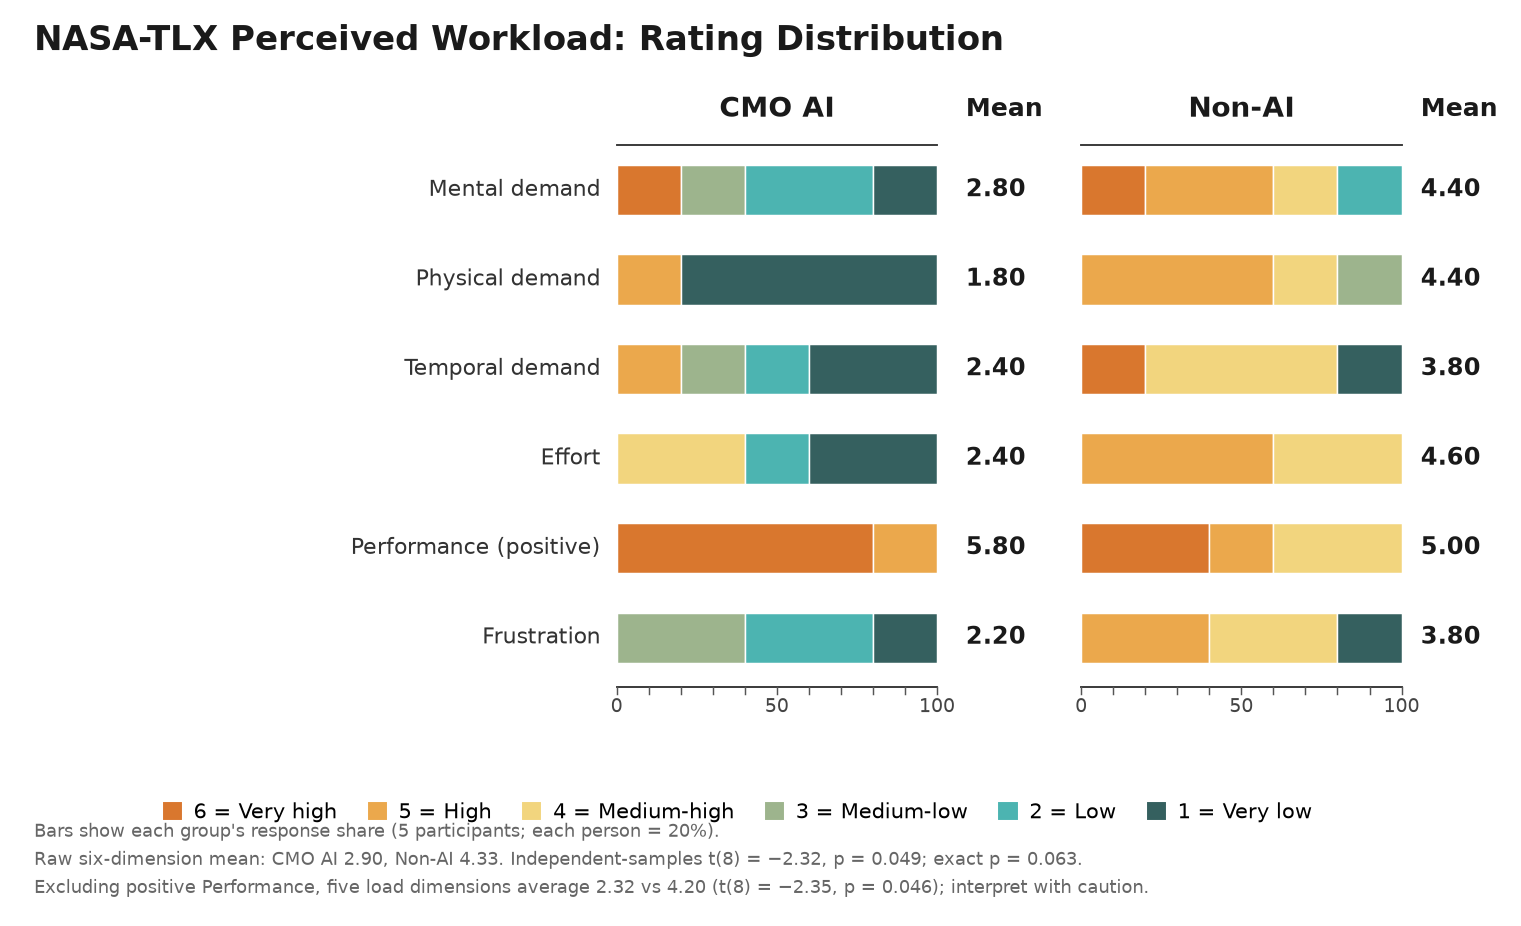
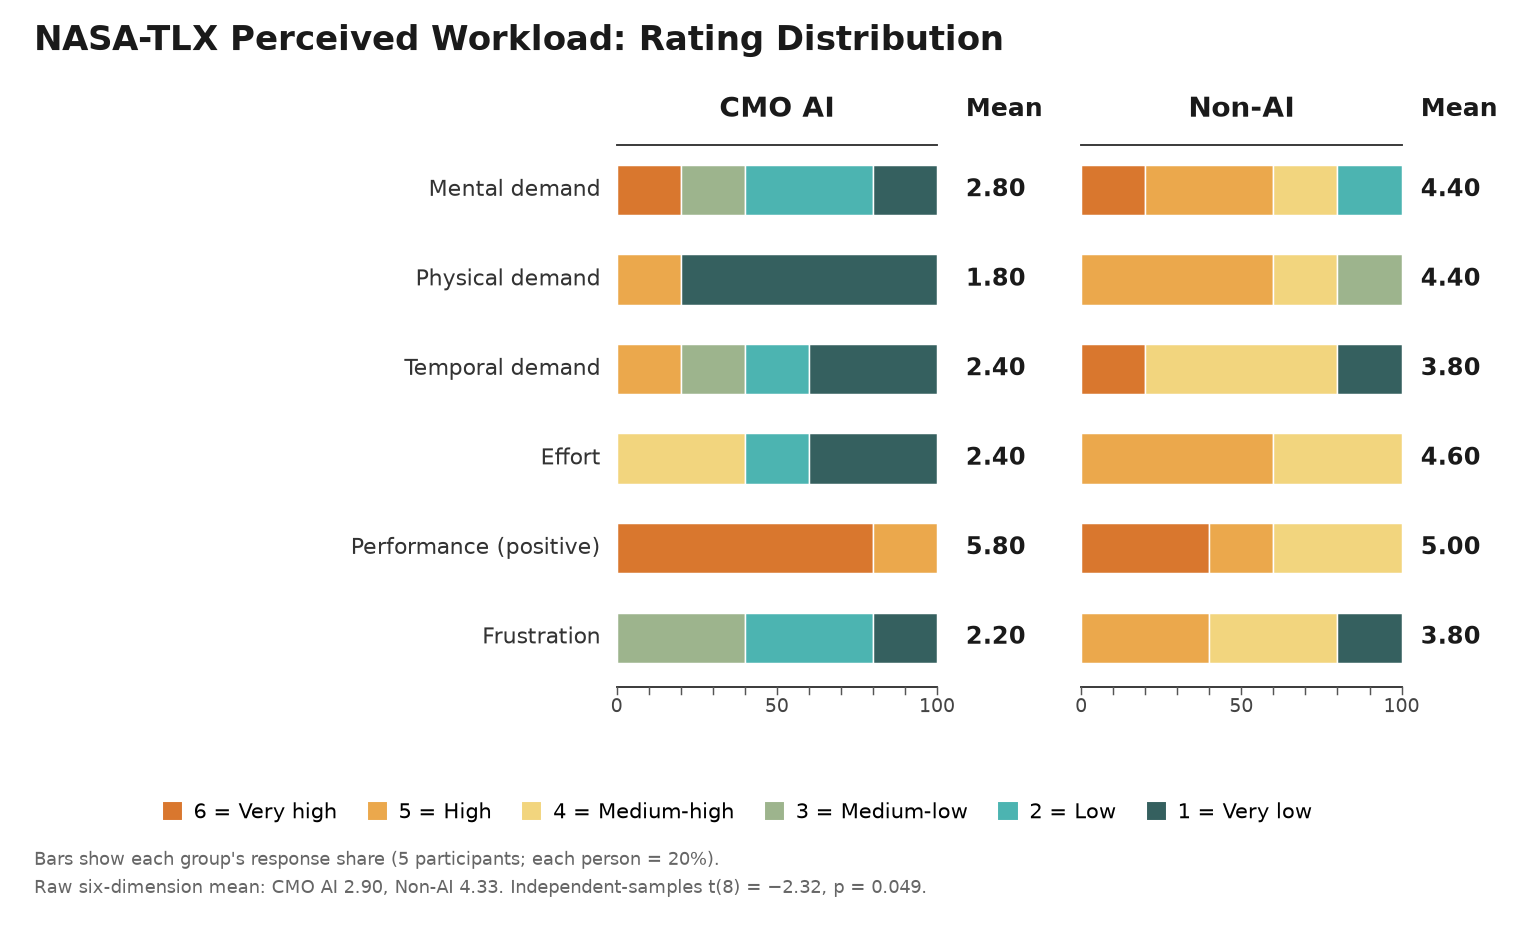
Simplify workload result text and drop the exact-test caveat

Changed region(s): [[0.0309, 0.8769, 0.7416, 0.9676]]

diff --git a/index.html b/index.html
@@ -703,16 +703,6 @@
             t test with pooled variance gives
             <strong>t(8) = −2.32, p = 0.049</strong>, so the difference is
             <strong>statistically significant</strong> at the .05 level.
-            The exact Mann–Whitney test, however, gives p = 0.063 and does not
-            confirm it, so the finding should still be read as marginal.
-          </p>
-          <p class="result-caveat">
-            Calculation note: all six dimensions use the same six-point scale
-            and are averaged as recorded, so the positive Performance item
-            points in the opposite direction. Excluding it, the five load
-            dimensions average <strong>2.32</strong> vs <strong>4.20</strong>
-            (t(8) = −2.35, p = 0.046; exact p = 0.040). With five participants
-            per group, treat this as a tentative signal.
           </p>
         </figure>
 
